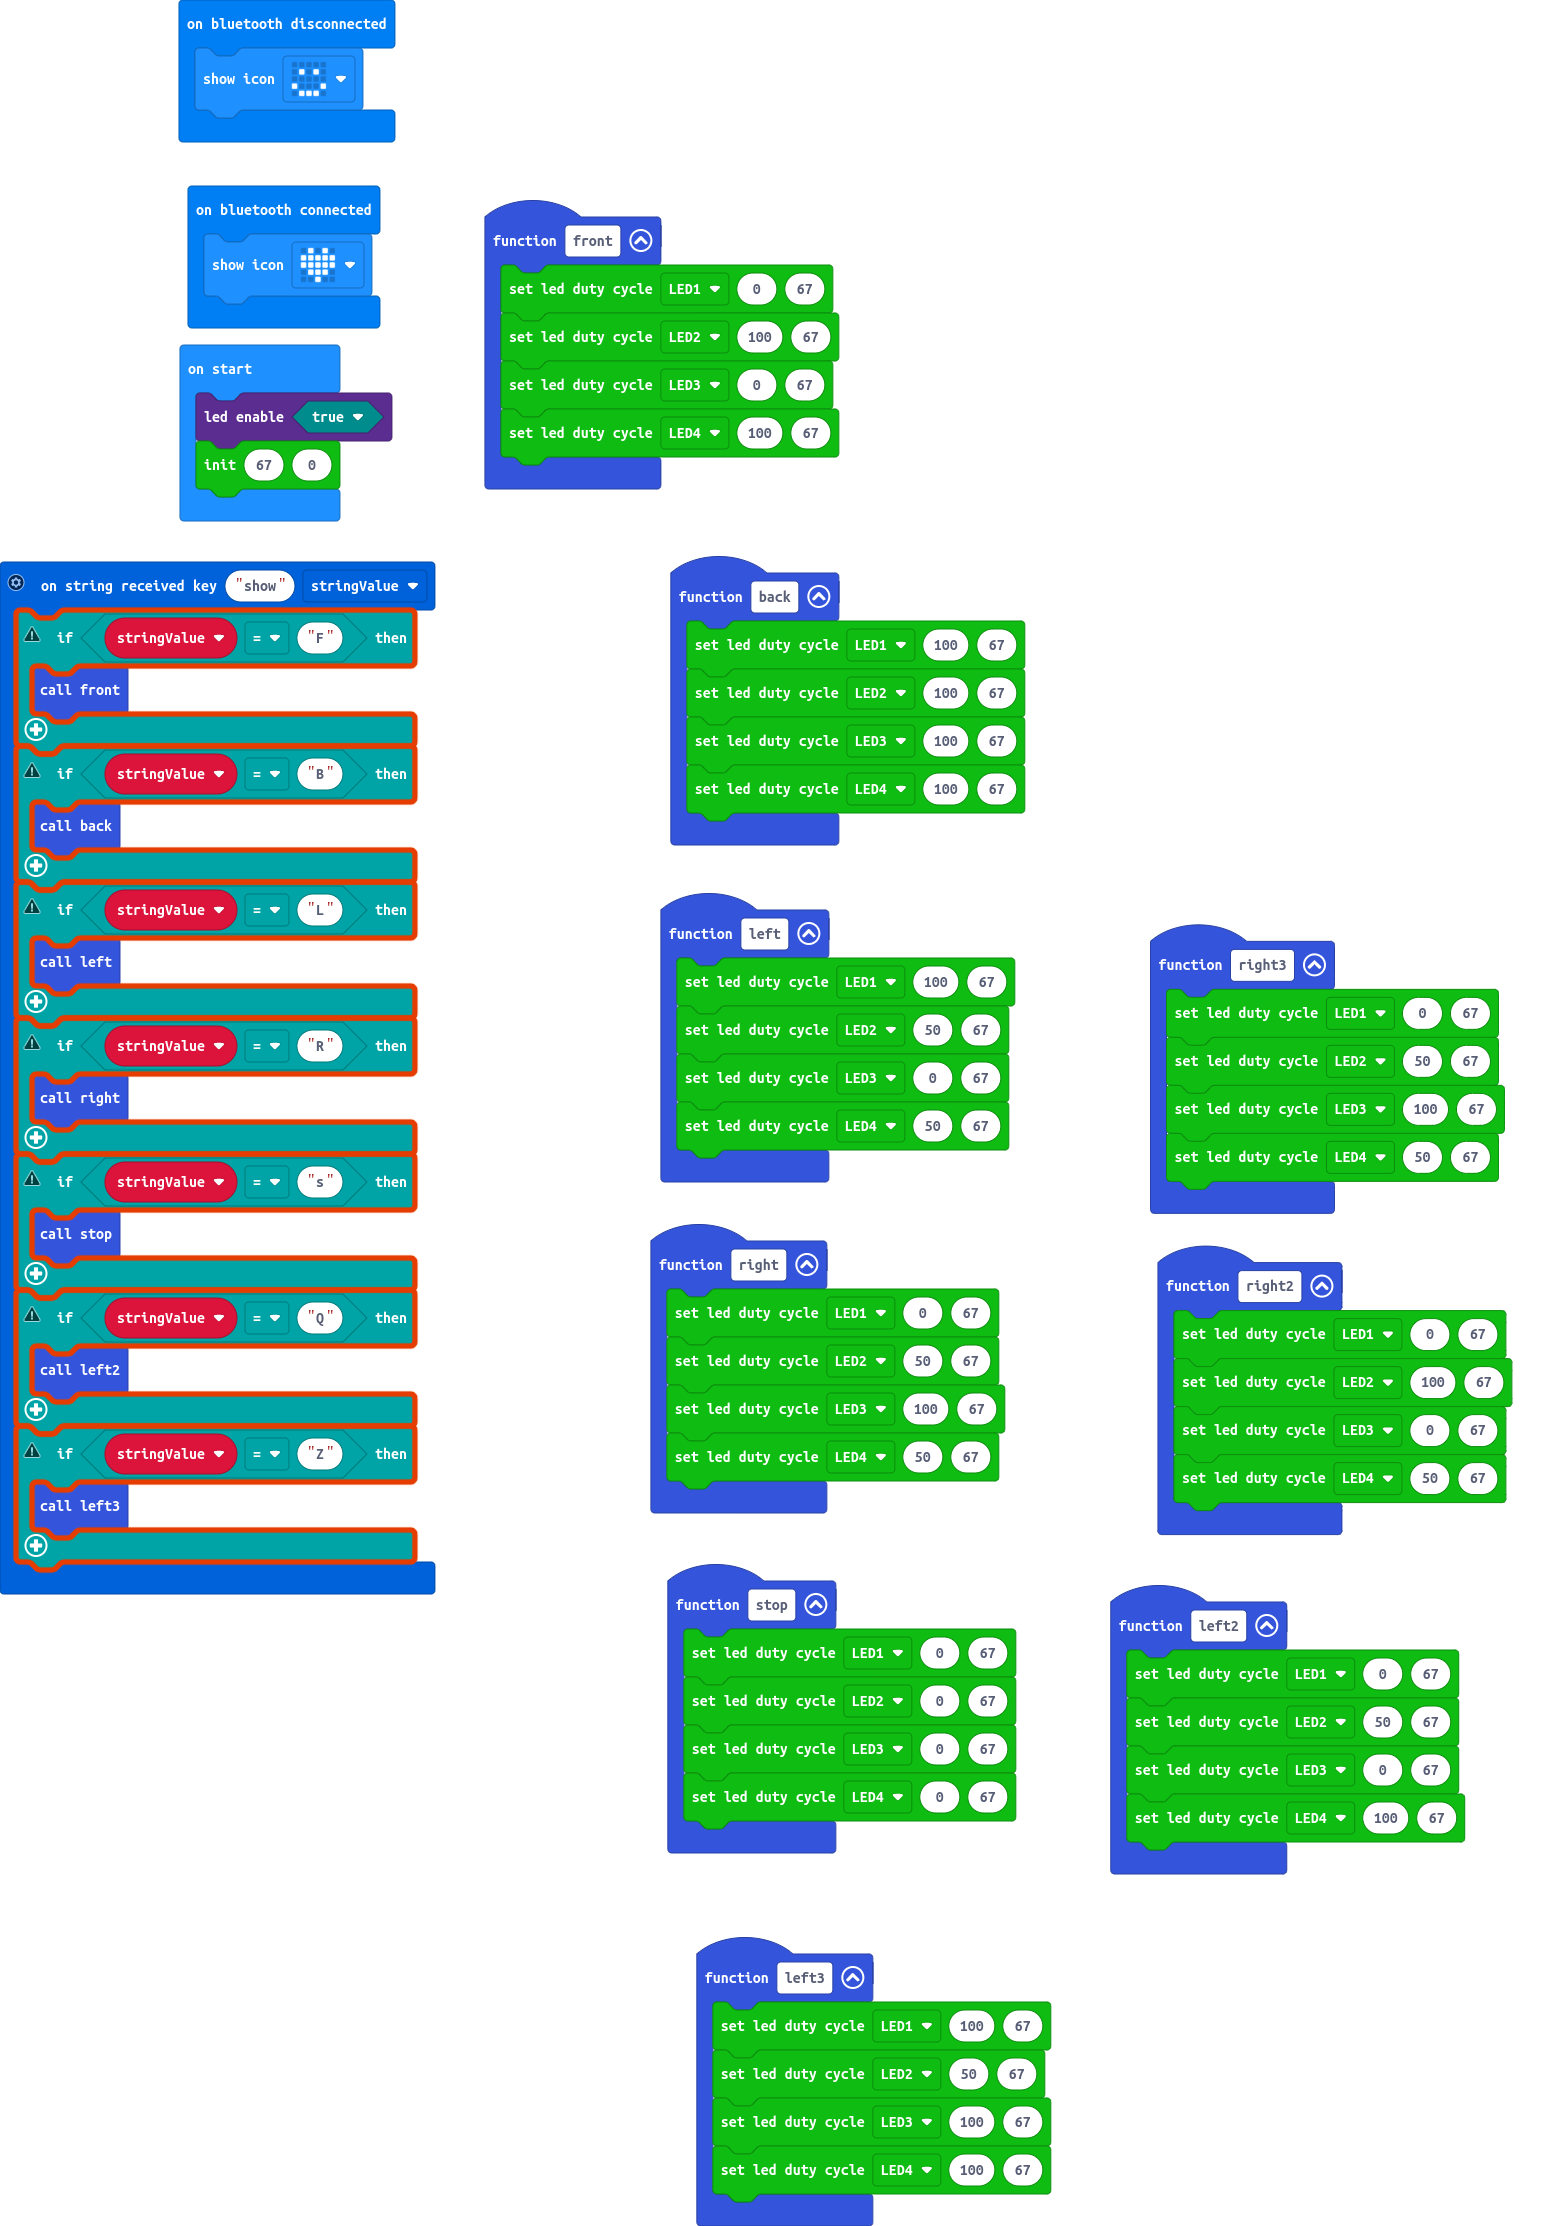
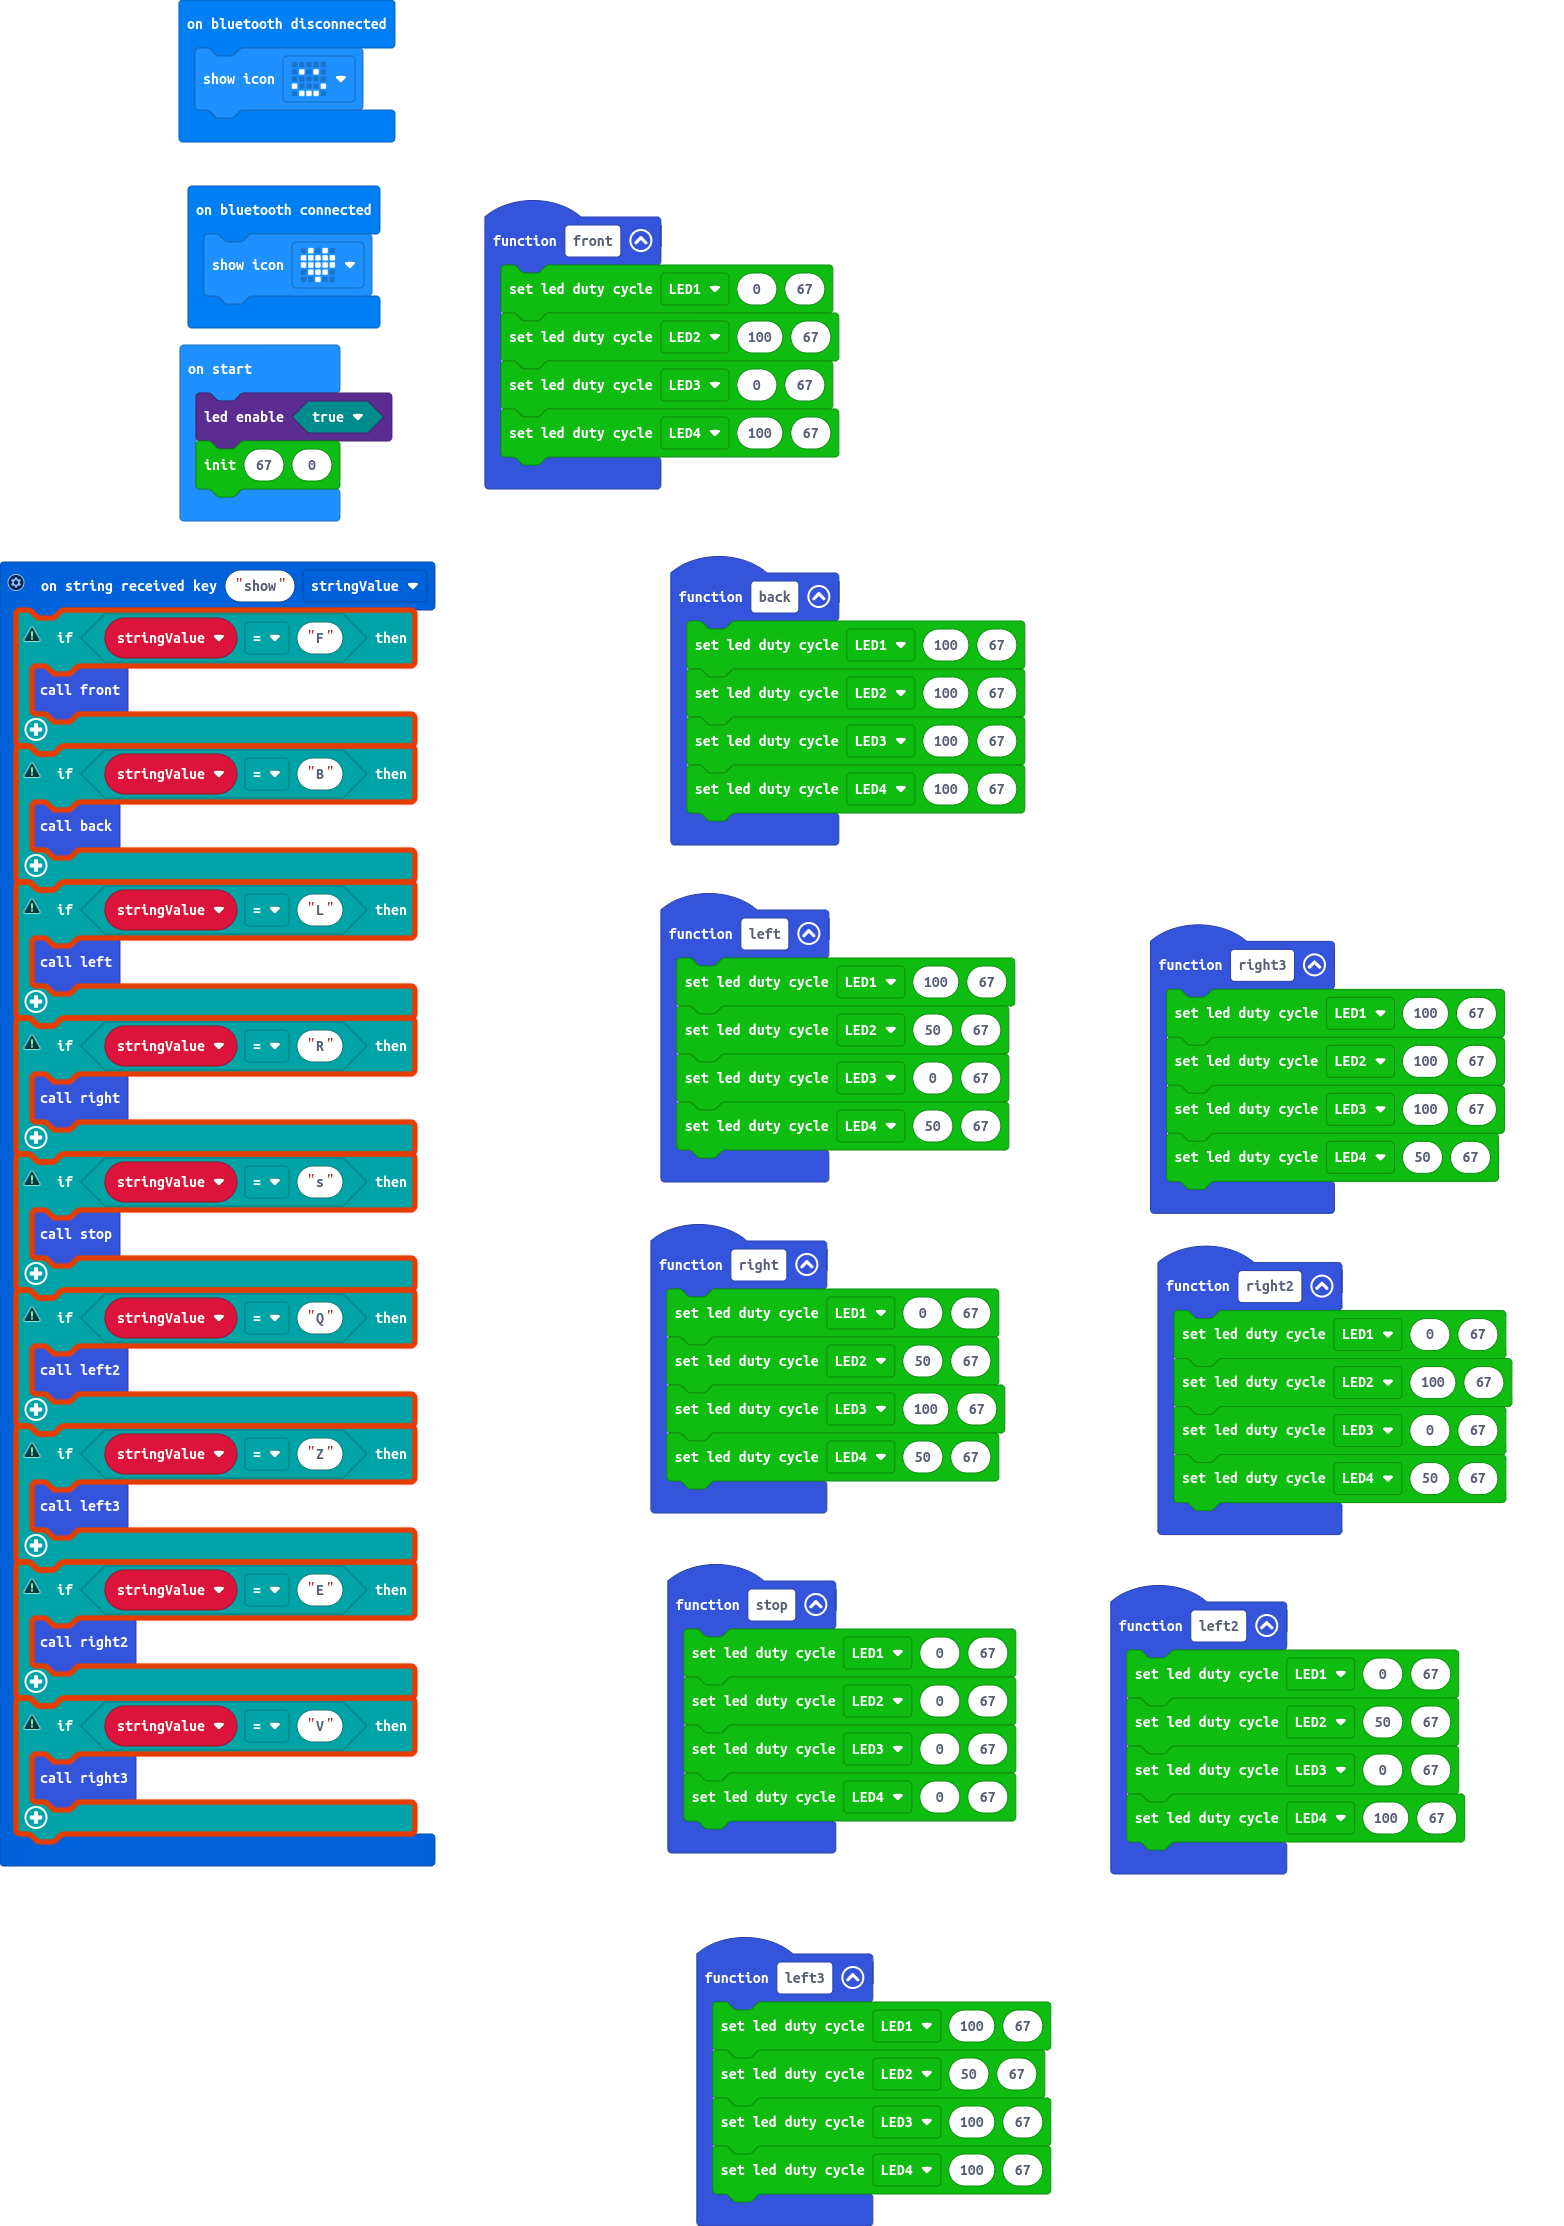
finish

Changed region(s): [[0.0, 0.6819, 0.2762, 0.8369], [0.9207, 0.434, 0.9821, 0.496]]

diff --git a/main.ts b/main.ts
@@ -26,6 +26,12 @@ blockyTalkyBLE.onStringReceived("show", function ({ numberValue: stringValue }) 
     if (stringValue == "Z") {
         left3()
     }
+    if (stringValue == "E") {
+        right2()
+    }
+    if (stringValue == "V") {
+        right3()
+    }
 })
 function back () {
     PCA9685.setLedDutyCycle(PCA9685.LEDNum.LED1, 100, 67)
@@ -70,8 +76,8 @@ function left2 () {
     PCA9685.setLedDutyCycle(PCA9685.LEDNum.LED4, 100, 67)
 }
 function right3 () {
-    PCA9685.setLedDutyCycle(PCA9685.LEDNum.LED1, 0, 67)
-    PCA9685.setLedDutyCycle(PCA9685.LEDNum.LED2, 50, 67)
+    PCA9685.setLedDutyCycle(PCA9685.LEDNum.LED1, 100, 67)
+    PCA9685.setLedDutyCycle(PCA9685.LEDNum.LED2, 100, 67)
     PCA9685.setLedDutyCycle(PCA9685.LEDNum.LED3, 100, 67)
     PCA9685.setLedDutyCycle(PCA9685.LEDNum.LED4, 50, 67)
 }
